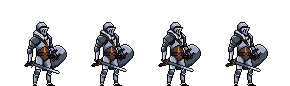
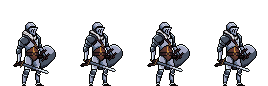
Update knight character

diff --git a/src/gamecfg.hpp b/src/gamecfg.hpp
@@ -13,6 +13,25 @@
 #define CFG_CHARACTER_SPEED (300.0f)
 #define CFG_CHARACTER_JUMP_HEIGHT (1.5f * CFG_CHARACTER_HEIGHT)
 
+// Knight
+#define CFG_KNIGHT_IMG_SCALE (CFG_CHARACTER_HEIGHT / (86.0f))
+#define CFG_KNIGHT_IMG_SWITCH_TIME 1.0f
+#define CFG_KNIGHT_IMG_ATTACK_PATH "assets/char/knight/image/attack.png"
+#define CFG_KNIGHT_IMG_ATTACK_FRAMES 5
+#define CFG_KNIGHT_IMG_DEAD_PATH "assets/char/knight/image/dead.png"
+#define CFG_KNIGHT_IMG_DEAD_FRAMES 6
+#define CFG_KNIGHT_IMG_HIT_PATH "assets/char/knight/image/hit.png"
+#define CFG_KNIGHT_IMG_HIT_FRAMES 2
+#define CFG_KNIGHT_IMG_IDLE_PATH "assets/char/knight/image/idle.png"
+#define CFG_KNIGHT_IMG_IDLE_FRAMES 4
+#define CFG_KNIGHT_IMG_WALK_PATH "assets/char/knight/image/walk.png"
+#define CFG_KNIGHT_IMG_WALK_FRAMES 8
+#define CFG_KNIGHT_IMG_JUMP_PATH "assets/char/knight/image/jump.png"
+#define CFG_KNIGHT_IMG_JUMP_FRAMES 6
+#define CFG_KNIGHT_STAT_ATTACK 8
+#define CFG_KNIGHT_STAT_DEFEND 7
+#define CFG_KNIGHT_STAT_HEALTH CFG_CHARACTER_HEALTH
+
 // Skeleton
 #define CFG_SKELETON_IMG_SCALE (CFG_CHARACTER_HEIGHT / (32.0f))
 #define CFG_SKELETON_IMG_SWITCH_TIME 0.5f

diff --git a/src/character/knight.cpp b/src/character/knight.cpp
@@ -2,5 +2,16 @@
 
 Knight::Knight()
 {
+    this->loadImage(State::Idle, CFG_KNIGHT_IMG_IDLE_PATH, CFG_KNIGHT_IMG_IDLE_FRAMES, CFG_KNIGHT_IMG_SWITCH_TIME);
+    this->loadImage(State::Attack, CFG_KNIGHT_IMG_ATTACK_PATH, CFG_KNIGHT_IMG_ATTACK_FRAMES, CFG_KNIGHT_IMG_SWITCH_TIME);
+    this->loadImage(State::Dead, CFG_KNIGHT_IMG_DEAD_PATH, CFG_KNIGHT_IMG_DEAD_FRAMES, CFG_KNIGHT_IMG_SWITCH_TIME);
+    this->loadImage(State::Hit, CFG_KNIGHT_IMG_HIT_PATH, CFG_KNIGHT_IMG_HIT_FRAMES, CFG_KNIGHT_IMG_SWITCH_TIME);
+    this->loadImage(State::Walk, CFG_KNIGHT_IMG_WALK_PATH, CFG_KNIGHT_IMG_WALK_FRAMES, CFG_KNIGHT_IMG_SWITCH_TIME);
+    this->loadImage(State::Jump, CFG_KNIGHT_IMG_JUMP_PATH, CFG_KNIGHT_IMG_JUMP_FRAMES, CFG_KNIGHT_IMG_SWITCH_TIME * 3);
+    this->attack = CFG_KNIGHT_STAT_ATTACK;
+    this->defend = CFG_KNIGHT_STAT_DEFEND;
+    this->health = CFG_KNIGHT_STAT_HEALTH;
+    this->scale = CFG_KNIGHT_IMG_SCALE;
+    this->setState(State::Idle);
 }
 Knight::~Knight(){};

diff --git a/src/game.cpp b/src/game.cpp
@@ -103,7 +103,7 @@ void Game::handleButton(const sf::Event &event)
         if (p)
         {
             DEBUG_PRINT("Created Player 2");
-            p->setCharacter(Player::CHARACTER_TYPE::SKELETON);
+            p->setCharacter(Player::CHARACTER_TYPE::KNIGHT);
             p->setPosition(800, 400);
             // Bind movement keys to Player2
             p->bindKey(sf::Keyboard::Key::Left, sf::Keyboard::Key::Right, sf::Keyboard::Key::Up, sf::Keyboard::Key::M);

diff --git a/src/player.cpp b/src/player.cpp
@@ -33,7 +33,7 @@ void Player::setCharacter(CHARACTER_TYPE c)
         this->character = std::make_shared<Skeleton>();
         break;
     case CHARACTER_TYPE::KNIGHT:
-        this->character = std::make_shared<Skeleton>();
+        this->character = std::make_shared<Knight>();
         break;
     default:
         break;
